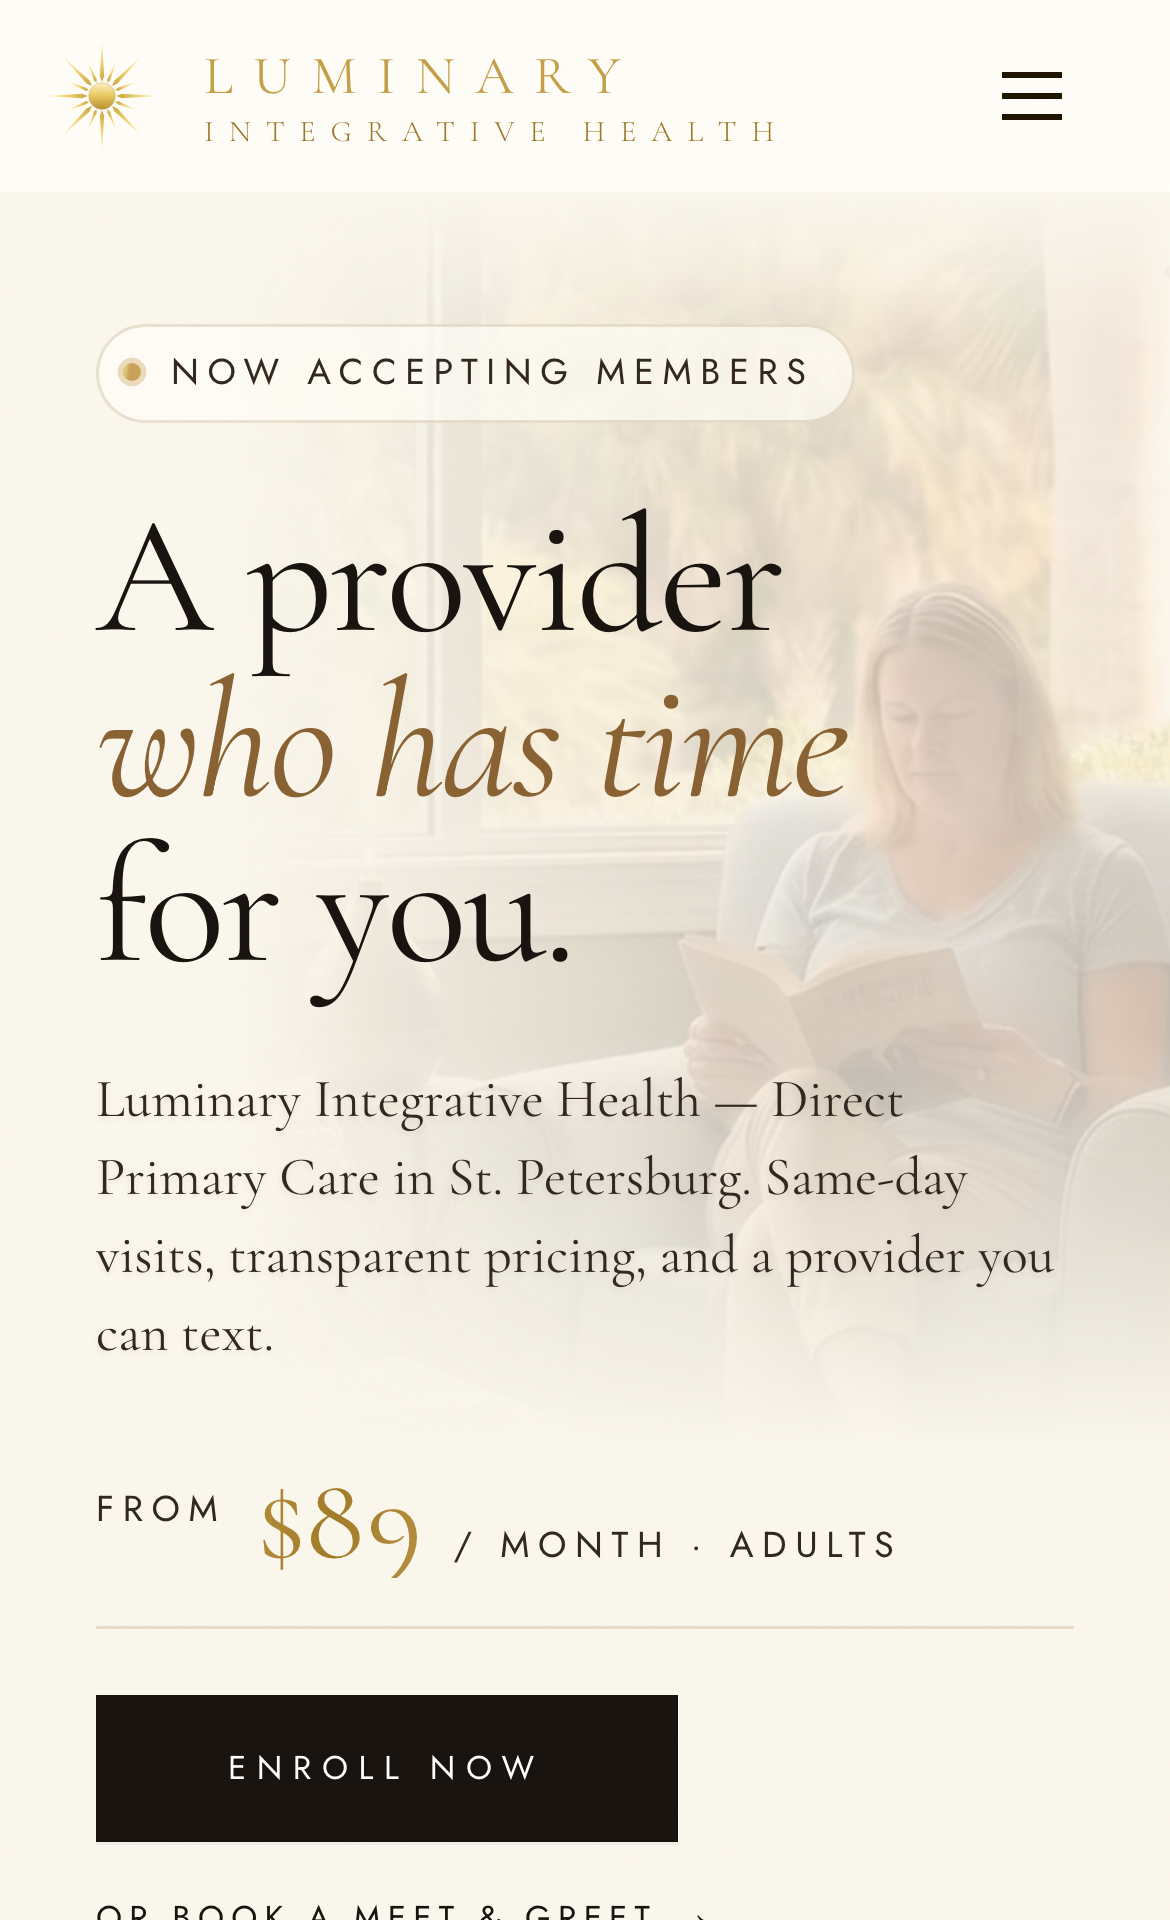
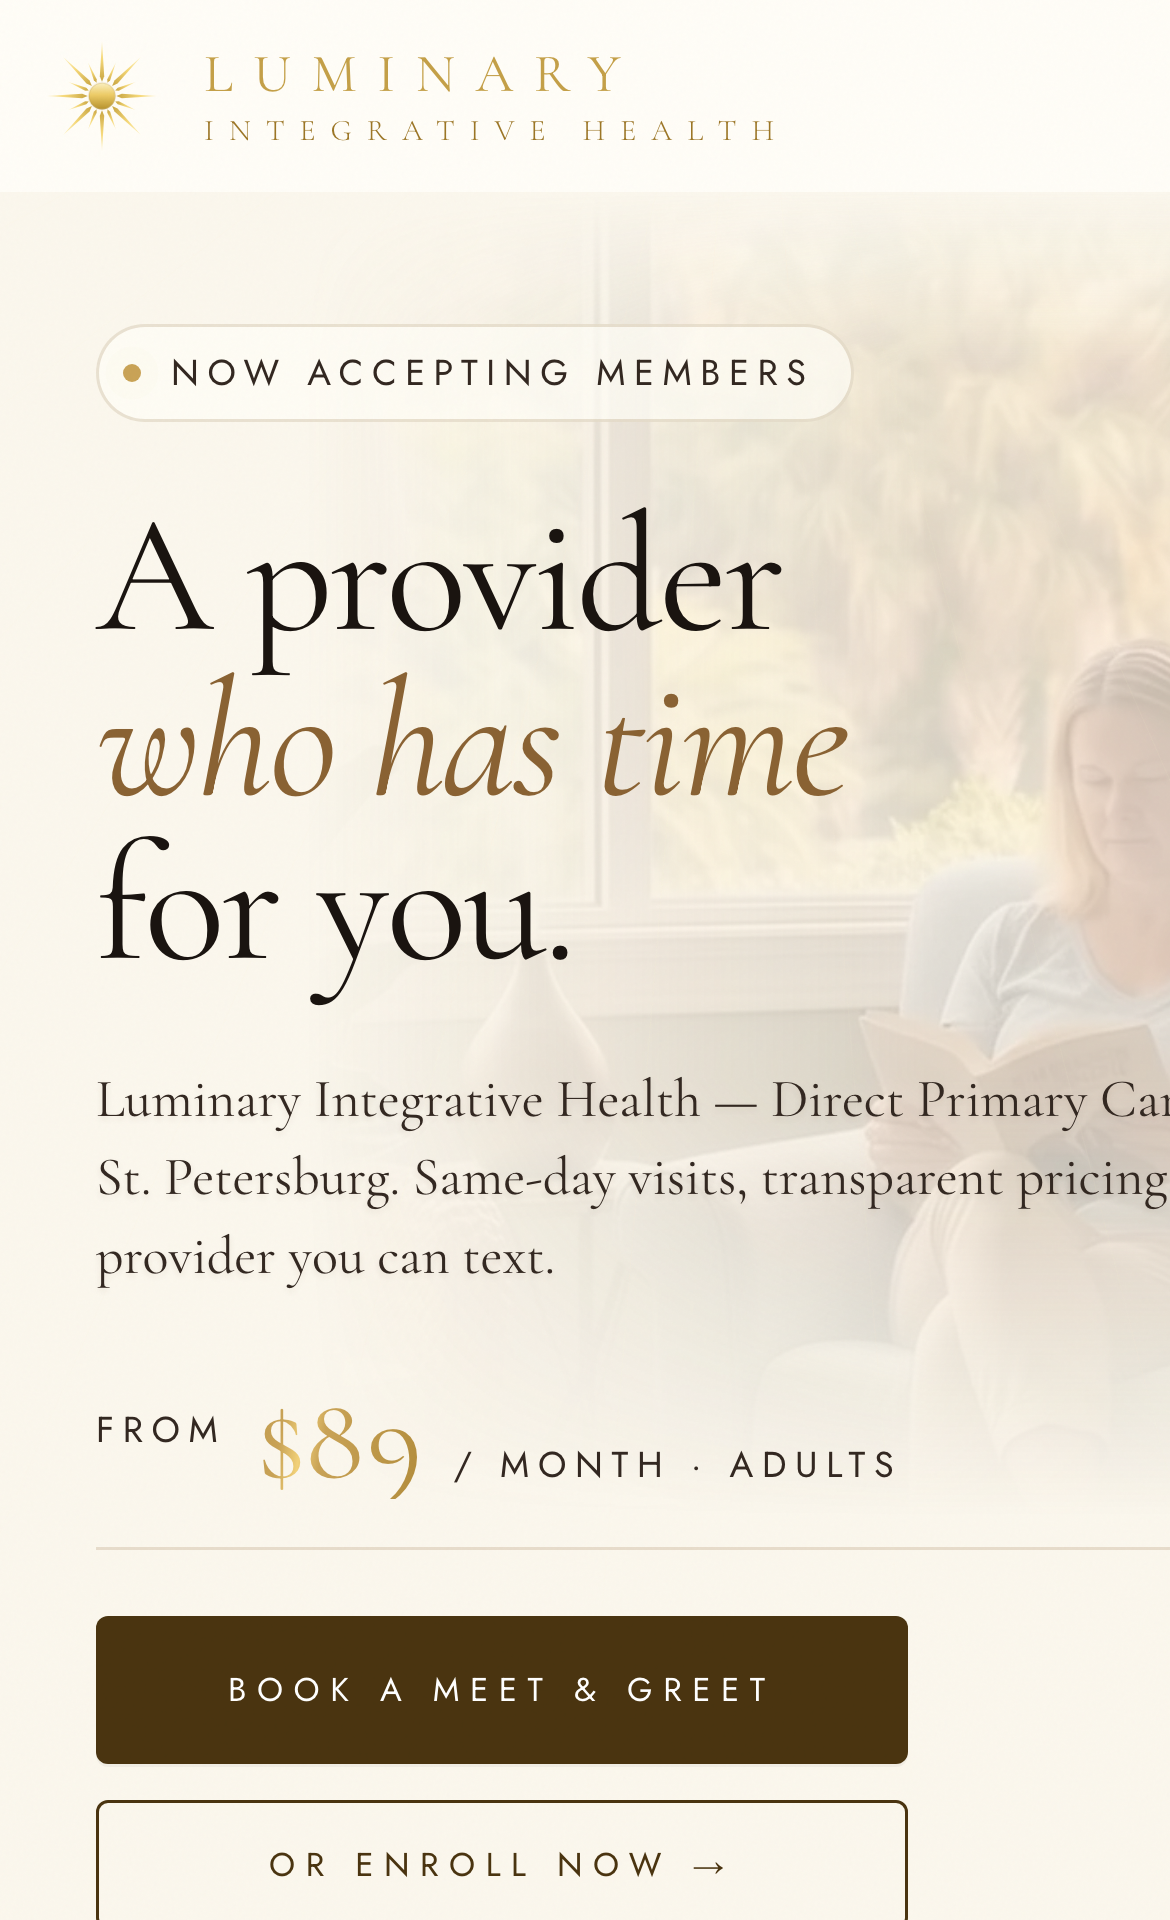
Remove footer address; restore clickable Luminary case study preview
Footer: removed physical address (kept name, phone, email).

Case study: restored the mobile preview in the desktop two-column
layout — full card is a link to luminaryihc.com, with cyan glow and
hover scale. Refreshed the preview with a live high-res capture of the
Luminary hero and switched the card to the image's natural aspect
ratio (removes the prior fixed-height whitespace).

diff --git a/components/sections/CaseStudy.tsx b/components/sections/CaseStudy.tsx
@@ -151,7 +151,11 @@ export default function CaseStudy() {
         </RevealWrapper>
 
         <RevealWrapper>
-          <div className="relative bg-[rgba(244,243,240,0.03)] border border-[rgba(244,243,240,0.08)] rounded-2xl p-[60px] overflow-hidden">
+          <div className="relative bg-[rgba(244,243,240,0.03)] border border-[rgba(244,243,240,0.08)] rounded-2xl p-[60px] grid overflow-hidden" style={{
+            gridTemplateColumns: '1fr 1.1fr',
+            gap: '48px',
+            alignItems: 'flex-start',
+          }}>
             {/* Top gradient line */}
             <div
               className="absolute top-0 left-0 right-0 h-0.5 pointer-events-none"
@@ -204,6 +208,61 @@ export default function CaseStudy() {
                 <svg width="12" height="12" viewBox="0 0 12 12" fill="none">
                   <path d="M2 10L10 2M10 2H5M10 2v5" stroke="currentColor" strokeWidth="1.5" strokeLinecap="round" strokeLinejoin="round" />
                 </svg>
+              </a>
+            </div>
+
+            {/* Right: clickable mobile preview → Luminary site */}
+            <div className="flex justify-center pt-2">
+              <a
+                href="https://www.luminaryihc.com"
+                target="_blank"
+                rel="noopener noreferrer"
+                className="block group cursor-pointer"
+                style={{ textDecoration: 'none' }}
+              >
+                <div style={{
+                  position: 'relative',
+                  width: '280px',
+                  transition: 'transform 0.3s cubic-bezier(0.16, 1, 0.3, 1)',
+                }} className="group-hover:scale-[1.02]">
+                  {/* Cyan glow halo behind phone */}
+                  <div style={{
+                    position: 'absolute',
+                    top: '50%',
+                    left: '50%',
+                    transform: 'translate(-50%, -50%)',
+                    width: '360px',
+                    height: '560px',
+                    borderRadius: '160px',
+                    background: 'radial-gradient(circle, rgba(8,145,178,0.32) 0%, rgba(8,145,178,0.12) 40%, transparent 70%)',
+                    filter: 'blur(60px)',
+                    pointerEvents: 'none',
+                    zIndex: 0,
+                    transition: 'opacity 0.3s cubic-bezier(0.16, 1, 0.3, 1)',
+                  }} className="group-hover:opacity-150" />
+
+                  {/* Phone mockup card */}
+                  <div style={{
+                    position: 'relative',
+                    zIndex: 1,
+                    width: '280px',
+                    borderRadius: '32px',
+                    overflow: 'hidden',
+                    border: '3px solid rgba(244,243,240,0.15)',
+                    boxShadow: '0 16px 48px rgba(8,145,178,0.15)',
+                    background: '#fff',
+                    transition: 'box-shadow 0.3s cubic-bezier(0.16, 1, 0.3, 1)',
+                  }} className="group-hover:shadow-2xl">
+                    <Image
+                      src="/luminary-mobile-preview.png"
+                      alt="Luminary Integrative Health mobile website"
+                      width={390}
+                      height={640}
+                      sizes="280px"
+                      style={{ width: '100%', height: 'auto', display: 'block' }}
+                    />
+                  </div>
+                </div>
               </a>
             </div>
           </div>

diff --git a/components/layout/Footer.tsx b/components/layout/Footer.tsx
@@ -26,8 +26,6 @@ export default function Footer() {
         {/* Mobile info — business contact details */}
         <div className="text-[11px] text-[rgba(244,243,240,0.35)] tracking-[0.03em] leading-[1.9]">
           <div className="text-[rgba(244,243,240,0.55)] font-semibold">Liam Parsons</div>
-          <div>La Canasta 32, San Cristóbal de las Casas</div>
-          <div>Chiapas 29256, Mexico</div>
           <a href="tel:+525545402582" className="text-[rgba(244,243,240,0.35)] no-underline hover:text-[#f4f3f0]">
             +52 55 4540 2582
           </a>
@@ -49,7 +47,6 @@ export default function Footer() {
 
         <div className="text-right text-[11px] text-[rgba(244,243,240,0.3)] tracking-[0.04em] leading-[1.9]">
           <div className="text-[rgba(244,243,240,0.55)] font-semibold">Liam Parsons</div>
-          <div>La Canasta 32, San Cristóbal de las Casas, Chiapas 29256, Mexico</div>
           <div>
             <a href="tel:+525545402582" className="text-[rgba(244,243,240,0.3)] no-underline hover:text-[#f4f3f0]">+52 55 4540 2582</a>
             &nbsp;·&nbsp;
